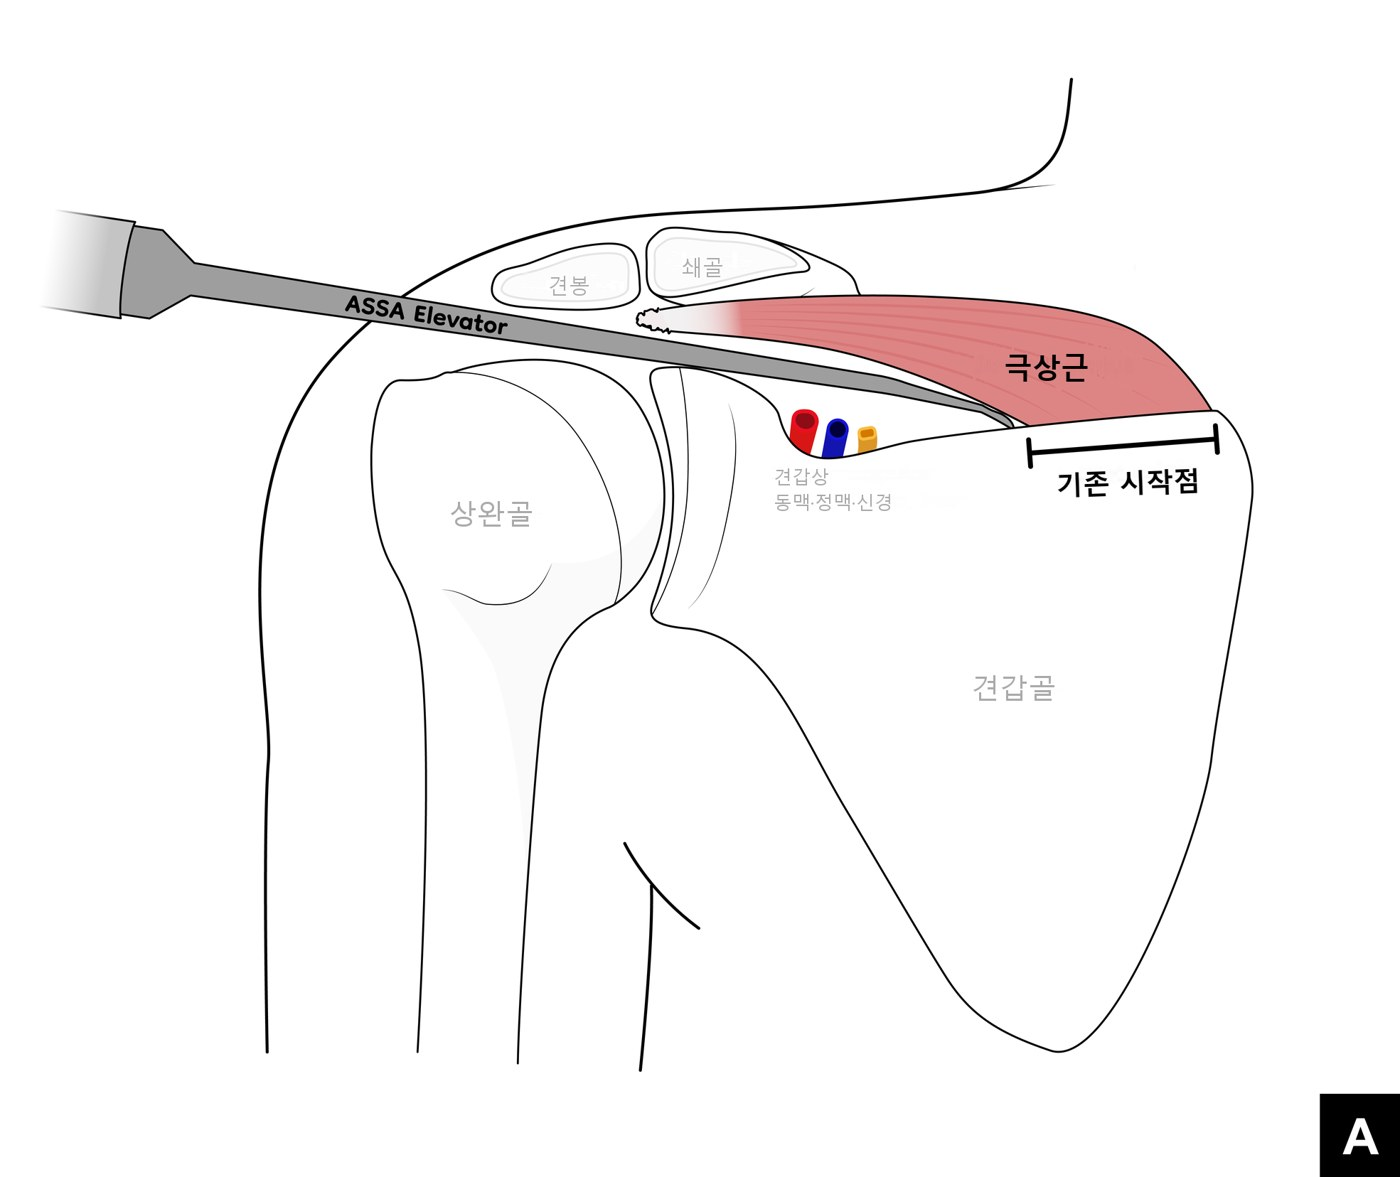
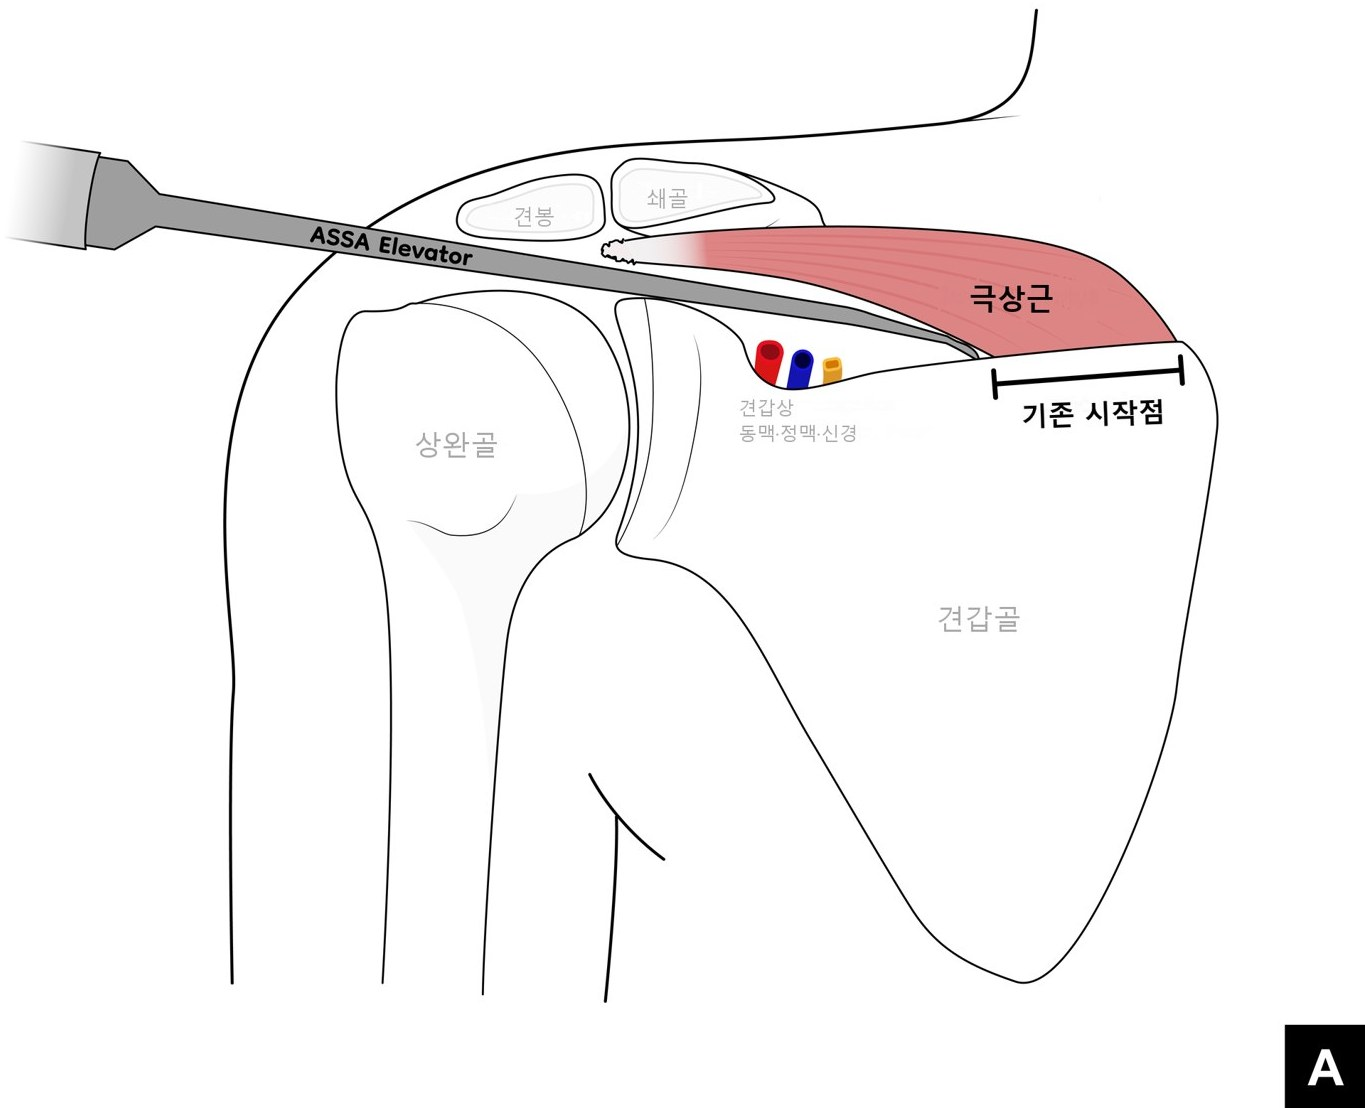
feat: ASSA 슬라이드 여백 축소·컷 트리밍, A·B·C 버튼 우측 상단, 캡션 재배치, 수술 순서 박스 삭제

diff --git a/index.html b/index.html
@@ -57,11 +57,12 @@ tr:last-child td,tr:last-child th{border-bottom:0}
 .faq p{margin-top:8px;font-size:15px}
 footer{padding:24px 20px 40px;font-size:13px;color:var(--muted);text-align:center;border-top:1px solid var(--line);background:#fff}
 .btn{display:block;text-align:center;background:var(--navy);color:#fff;text-decoration:none;padding:14px;border-radius:12px;font-weight:600;margin-top:16px}
-.assa .slides{display:grid;background:#fff;border:1px solid var(--line);border-radius:14px;padding:6px;touch-action:pan-y}
+.assa{position:relative}
+.assa .slides{display:grid;background:#fff;border:1px solid var(--line);border-radius:14px;padding:3px;touch-action:pan-y}
 .assa .slides img{grid-area:1/1;width:100%;height:auto;display:block;border-radius:8px;opacity:0;transition:opacity .6s ease}
 .assa .slides img.on{opacity:1}
-.assa .dots{display:flex;justify-content:center;gap:8px;margin-top:10px}
-.assa .dots button{width:30px;height:30px;border-radius:50%;border:1px solid var(--line);background:#fff;color:var(--muted);font-weight:700;font-size:13px;padding:0;cursor:pointer}
+.assa .dots{position:absolute;top:10px;right:10px;display:flex;gap:6px;z-index:2}
+.assa .dots button{width:28px;height:28px;border-radius:50%;border:1px solid var(--line);background:rgba(255,255,255,.92);color:var(--muted);font-weight:700;font-size:13px;padding:0;cursor:pointer}
 .assa .dots button.on{background:var(--teal);border-color:var(--teal);color:#fff}
 @media(prefers-reduced-motion:reduce){html{scroll-behavior:auto}.assa .slides img{transition:none}}
 </style>
@@ -112,19 +113,13 @@ footer{padding:24px 20px 40px;font-size:13px;color:var(--muted);text-align:cente
   <p class="lead">힘줄을 억지로 잡아당기는 대신, <b>근육을 어깨뼈 바닥에서 통째로 들어 올려 앞으로 옮겨</b> 힘줄이 원래 자리에 닿게 하는 관절경 수술입니다.</p>
   <figure class="assa">
     <div class="slides" id="assaSlides">
-      <img src="img/assa-a.jpg" class="on" alt="A. 전용 기구가 극상근을 날개뼈 부착점에서 들어 올리는 그림" data-cap="A · 전용 기구로 극상근을 부착점에서 부드럽게 들어 올립니다">
-      <img src="img/assa-b.jpg" alt="B. 들어 올린 극상근을 바깥쪽으로 옮기는 그림" data-cap="B · 자유로워진 근육과 힘줄을 바깥쪽으로 옮깁니다">
-      <img src="img/assa-c.jpg" alt="C. 새 시작점에 자리 잡은 극상근과 원래 자리에 닿은 힘줄" data-cap="C · 새 시작점에서 힘줄이 원래 부착점까지 닿습니다">
+      <img src="img/assa-a.jpg" class="on" alt="A. 기존 외측 삽입구로 전용 기구를 넣는 그림" data-cap="A · 기존 외측 삽입구로 전용 기구를 넣습니다 (추가 절개 불필요)">
+      <img src="img/assa-b.jpg" alt="B. 전용 기구가 극상근을 날개뼈 부착점에서 들어 올리는 그림" data-cap="B · 전용 기구로 극상근을 부착점에서 부드럽게 들어 올립니다">
+      <img src="img/assa-c.jpg" alt="C. 자유로워진 근육과 힘줄을 바깥쪽으로 옮긴 그림" data-cap="C · 자유로워진 근육과 힘줄을 바깥쪽으로 옮깁니다">
     </div>
     <div class="dots" id="assaDots" role="tablist" aria-label="그림 단계"><button class="on" aria-label="A">A</button><button aria-label="B">B</button><button aria-label="C">C</button></div>
-    <figcaption id="assaCap">A · 전용 기구로 극상근을 부착점에서 부드럽게 들어 올립니다</figcaption>
+    <figcaption id="assaCap">A · 기존 외측 삽입구로 전용 기구를 넣습니다 (추가 절개 불필요)</figcaption>
   </figure>
-  <div class="card">
-    <h3>수술 순서 (관절경, <b>추가 절개 없음</b>)</h3>
-    <div class="step"><div class="n">1</div><div><b>유착 풀기</b>힘줄 위·아래를 덮은 주머니와 관절막의 유착을 정리합니다.</div></div>
-    <div class="step"><div class="n">2</div><div><b>근육 들어 올리기</b>가늘고 굽은 전용 기구(ASSA elevator)로 극상근을 날개뼈 부착점에서 부드럽게 들어 올립니다.</div></div>
-    <div class="step"><div class="n">3</div><div><b>원래 부착점에 봉합</b>자유로워진 힘줄을 원래 자리까지 옮겨 튼튼하게 봉합합니다.</div></div>
-  </div>
   <h3>광범위 파열 봉합 후 재파열률</h3>
   <div class="hero">
     <div class="v"><span class="from">최대 94%</span><span class="arrow">→</span>18.4%</div>
